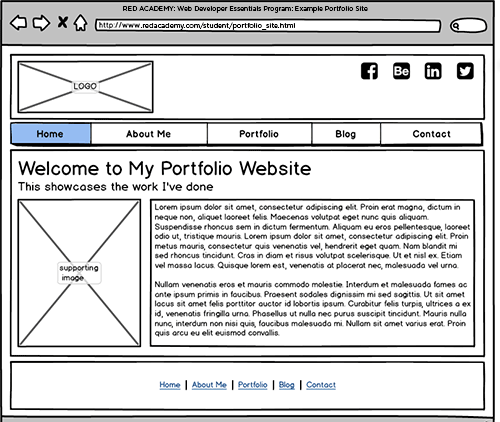
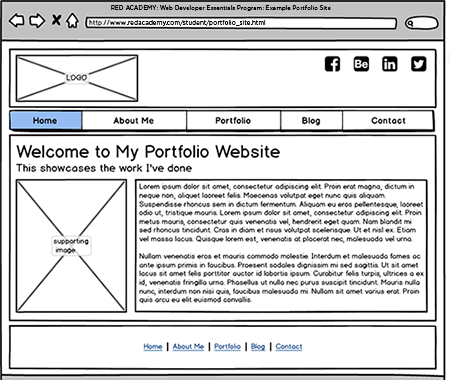
resize image to fit slide view

diff --git a/web-dev-foundation/_slides/02-rwd/03-wireframes-slides.md b/web-dev-foundation/_slides/02-rwd/03-wireframes-slides.md
@@ -28,7 +28,7 @@ template: inverse
 # What is a Wireframe?
 
 ---
-
+class: center, middle
 ## What are Wireframes?
 A wireframes is a simple representation of a website in simple visual blocks.
 
